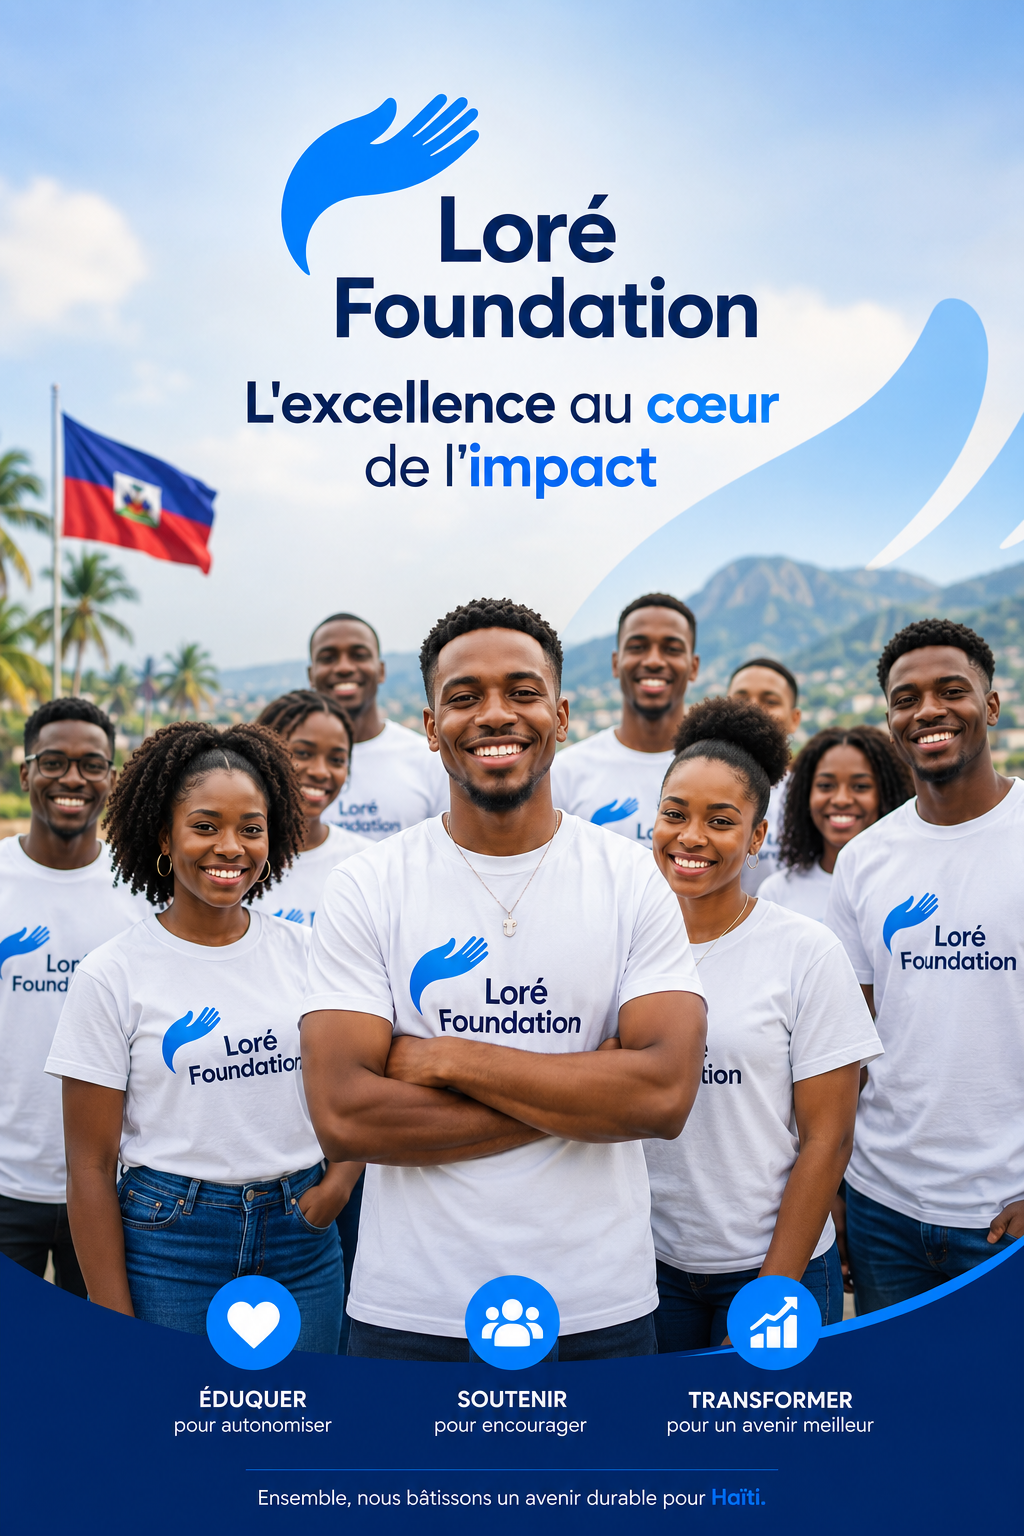
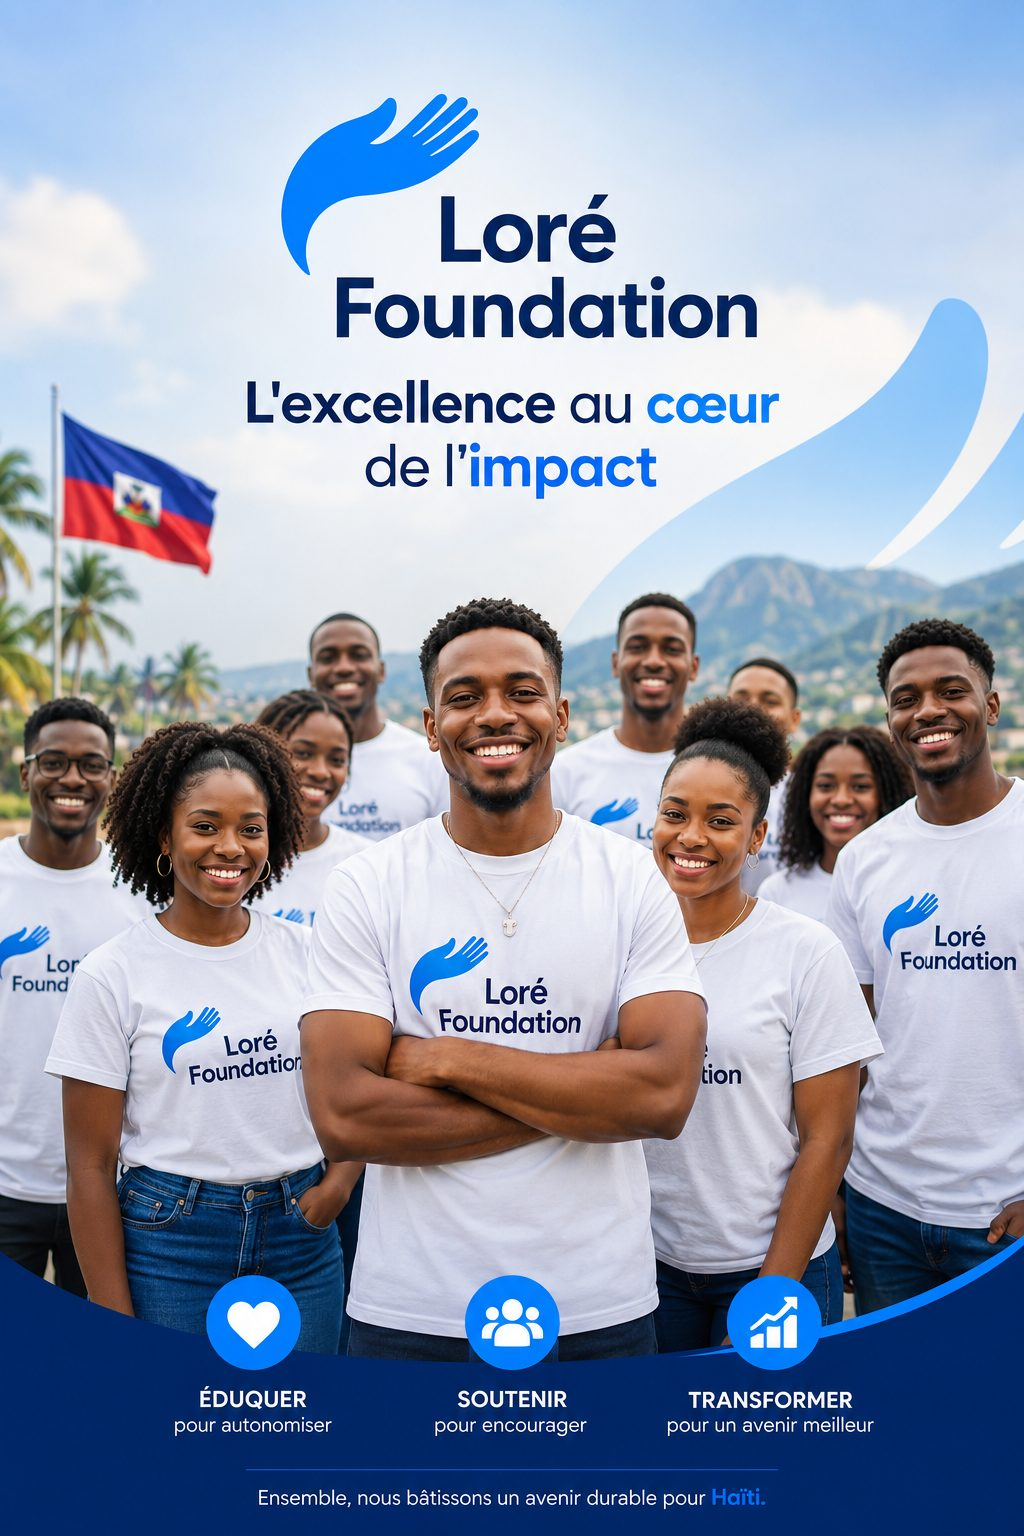
Korije lyen Projets kraze + optimize imaj pou vitès

diff --git a/app/projects/[slug]/page.tsx b/app/projects/[slug]/page.tsx
@@ -101,7 +101,7 @@ export default function ProjetPage() {
     <div className="flex min-h-screen flex-col items-center justify-center gap-5 bg-lore-cream dark:bg-lore-night px-5 text-center">
       <Target className="h-16 w-16 text-lore-ink/20 dark:text-white/20" />
       <h1 className="font-display text-2xl font-bold text-lore-ink dark:text-white">Projet non trouvé</h1>
-      <Link href="/projets" className="rounded-full bg-lore-blue px-6 py-3 text-sm font-bold text-white hover:bg-lore-blue/90 transition-colors">
+      <Link href="/projects" className="rounded-full bg-lore-blue px-6 py-3 text-sm font-bold text-white hover:bg-lore-blue/90 transition-colors">
         Voir tous les projets
       </Link>
     </div>
@@ -113,7 +113,7 @@ export default function ProjetPage() {
       {/* Header */}
       <div className="sticky top-0 z-20 border-b border-lore-dark/5 bg-white/90 backdrop-blur-md dark:border-white/5 dark:bg-lore-night/90">
         <div className="mx-auto flex max-w-5xl items-center gap-4 px-5 py-4">
-          <Link href="/projets" className="text-lore-ink/50 hover:text-lore-ink dark:text-white/50 dark:hover:text-white transition-colors">
+          <Link href="/projects" className="text-lore-ink/50 hover:text-lore-ink dark:text-white/50 dark:hover:text-white transition-colors">
             <ArrowLeft className="h-5 w-5" />
           </Link>
           <p className="flex-1 font-display font-bold text-sm text-lore-ink dark:text-white truncate">{project.title}</p>

diff --git a/components/ui/PortfolioGallery.tsx b/components/ui/PortfolioGallery.tsx
@@ -53,8 +53,8 @@ export default function PortfolioGallery({ item, onClose }: PortfolioGalleryProp
                   src={current.url}
                   alt={`${item.title} — média ${activeIndex + 1}`}
                   fill
+                  sizes="(min-width: 1024px) 50vw, 100vw"
                   className="object-cover"
-                  unoptimized
                 />
               )
             ) : (
@@ -142,7 +142,7 @@ export default function PortfolioGallery({ item, onClose }: PortfolioGalleryProp
                         </div>
                       </>
                     ) : (
-                      <Image src={m.url} alt="" fill className="object-cover" unoptimized />
+                      <Image src={m.url} alt="" fill sizes="80px" className="object-cover" />
                     )}
                   </button>
                 ))}

diff --git a/components/ui/SeminarGallery.tsx b/components/ui/SeminarGallery.tsx
@@ -44,8 +44,8 @@ export default function SeminarGallery({ title, media, onClose }: SeminarGallery
                   src={current.url}
                   alt={`${title} — image ${activeIndex + 1}`}
                   fill
+                  sizes="(min-width: 1024px) 50vw, 100vw"
                   className="object-cover"
-                  unoptimized
                 />
               )
             ) : (
@@ -99,7 +99,7 @@ export default function SeminarGallery({ title, media, onClose }: SeminarGallery
                     {item.type === "video" ? (
                       <video src={item.url} muted playsInline className="h-full w-full object-cover" />
                     ) : (
-                      <Image src={item.url} alt="" fill className="object-cover" unoptimized />
+                      <Image src={item.url} alt="" fill sizes="80px" className="object-cover" />
                     )}
                   </button>
                 ))}

diff --git a/components/SponsorsClient.tsx b/components/SponsorsClient.tsx
@@ -1,6 +1,7 @@
 "use client";
 
 import { useState } from "react";
+import Image from "next/image";
 import { HandHeart, Globe, ChevronDown, ChevronUp, CheckCircle2, Loader2 } from "lucide-react";
 
 type PublicSponsor = {
@@ -250,7 +251,7 @@ function SponsorRow({ label, items }: { label: string; items: PublicSponsor[] })
           <div key={s.id}
             className="flex items-center gap-3 rounded-2xl border border-lore-dark/5 bg-white px-5 py-3 dark:border-white/5 dark:bg-lore-night-surface">
             {s.logo_url
-              ? <img src={s.logo_url} alt={s.name} className="h-8 w-8 rounded-full object-cover" />
+              ? <Image src={s.logo_url} alt={s.name} width={32} height={32} sizes="32px" className="h-8 w-8 rounded-full object-cover" />
               : <div className="flex h-8 w-8 items-center justify-center rounded-full bg-lore-blue/10 text-sm font-bold text-lore-blue">
                   {s.name.charAt(0)}
                 </div>}

diff --git a/app/projects/ProjetsClient.tsx b/app/projects/ProjetsClient.tsx
@@ -145,7 +145,7 @@ function ProjectCard({ project: p, featured }: { project: Project; featured?: bo
     : null;
 
   return (
-    <Link href={`/projets/${p.slug}`}
+    <Link href={`/projects/${p.slug}`}
       className={`group flex flex-col overflow-hidden rounded-3xl border border-lore-dark/5 bg-white dark:border-white/5 dark:bg-lore-night-surface hover:shadow-xl transition-shadow ${
         featured ? "sm:flex-row" : ""
       }`}>

diff --git a/components/PortfolioClient.tsx b/components/PortfolioClient.tsx
@@ -68,7 +68,7 @@ export default function PortfolioClient({ items: portfolio }: { items: Portfolio
                         src={cover.url}
                         alt={item.title}
                         fill
-                        unoptimized
+                        sizes="(min-width: 1024px) 33vw, (min-width: 640px) 50vw, 100vw"
                         className="object-cover transition-transform duration-500 group-hover:scale-105"
                       />
                     )

diff --git a/components/SeminarsClient.tsx b/components/SeminarsClient.tsx
@@ -76,7 +76,7 @@ export default function SeminarsClient({ items }: { items: Seminar[] }) {
                           </div>
                         </>
                       ) : (
-                        <Image src={cover.url} alt={seminar.title} fill className="object-cover" unoptimized />
+                        <Image src={cover.url} alt={seminar.title} fill sizes="(min-width: 1024px) 33vw, (min-width: 640px) 50vw, 100vw" className="object-cover" />
                       )
                     ) : (
                       <div className="flex h-full w-full items-center justify-center text-lore-dark/20 dark:text-white/20">

diff --git a/components/Team.tsx b/components/Team.tsx
@@ -78,7 +78,7 @@ export default async function Team() {
                       src={member.photo}
                       alt={member.name}
                       fill
-                      unoptimized
+                      sizes="(min-width: 640px) 128px, 112px"
                       className="object-cover"
                     />
                   </div>

diff --git a/lib/data.ts b/lib/data.ts
@@ -331,7 +331,7 @@ export const navLinks = [
   { label: "Accueil",      href: "#accueil" },
   { label: "À propos",     href: "/a-propos" },
   { label: "Programmes",   href: "#services" },
-  { label: "Projets",      href: "/projets" },
+  { label: "Projets",      href: "/projects" },
   { label: "Blog",         href: "/blog" },
   { label: "Faire un don", href: "/don" },
   { label: "Contact",      href: "#contact" },